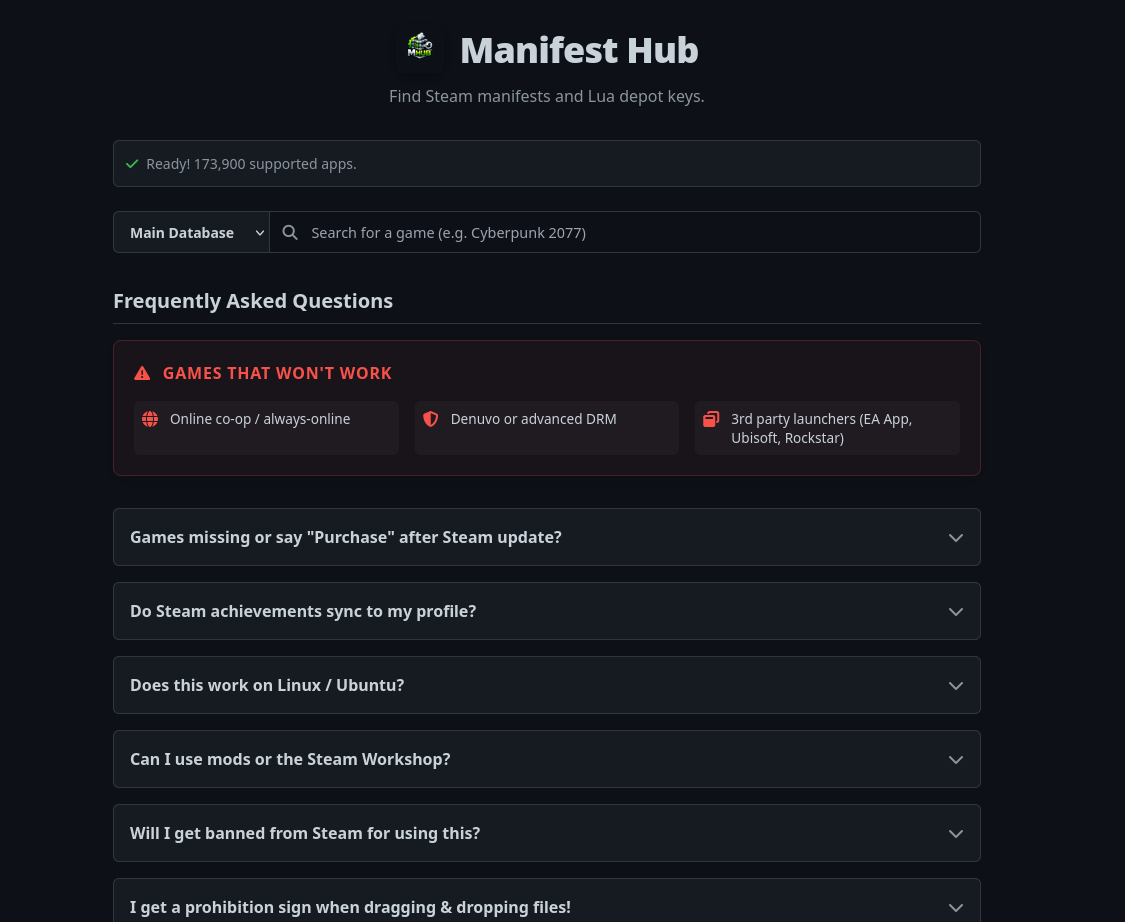
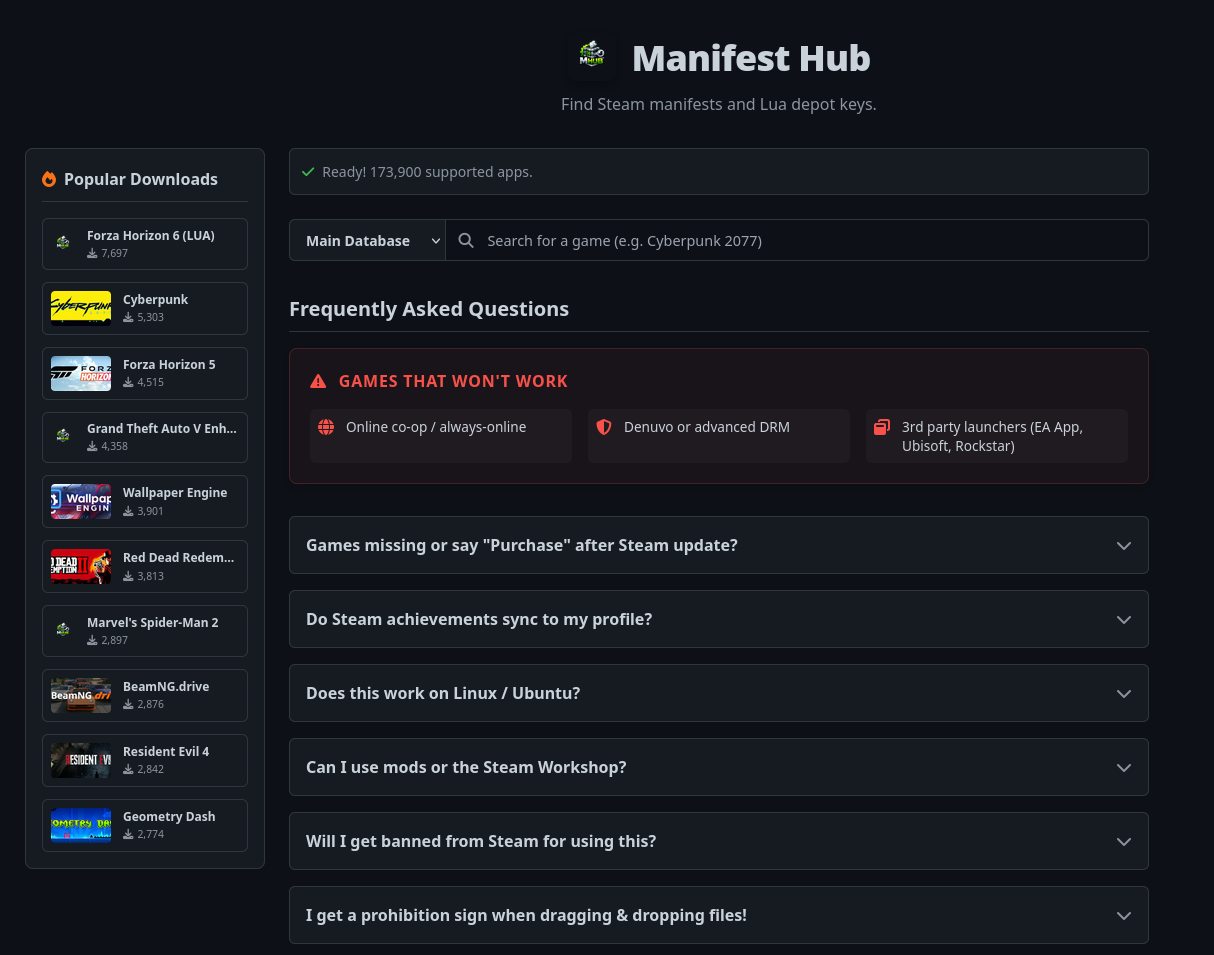
readme update

diff --git a/README.md b/README.md
@@ -9,20 +9,17 @@ Manifest Hub allows users to search through game manifests, view manifest detail
 ## Screenshots
 
 <details>
-<summary>Click to expand screenshot slider</summary>
-<br>
+<summary>Click to expand screenshots</summary>
 
-<table>
-  <tr>
-    <td valign="top"><p align="center"><strong>Homepage</strong></p><img src="assets/screenshots/Screenshot_20260623_153129.png" width="500" alt="Homepage"></td>
-    <td valign="top"><p align="center"><strong>Search Results</strong></p><img src="assets/screenshots/Screenshot_20260623_153230.png" width="500" alt="Search Results"></td>
-    <td valign="top"><p align="center"><strong>Legacy Archive</strong></p><img src="assets/screenshots/Screenshot_20260623_153309.png" width="500" alt="Legacy Archive"></td>
-    <td valign="top"><p align="center"><strong>Download History</strong></p><img src="assets/screenshots/Screenshot_20260623_202028.png" width="500" alt="Download History"></td>
-    <td valign="top"><p align="center"><strong>Account Settings</strong></p><img src="assets/screenshots/Screenshot_20260623_201936.png" width="500" alt="Account Settings"></td>
-  </tr>
-</table>
+![Homepage](assets/screenshots/Screenshot_20260623_153129.png)
 
-</details>
+![Search Results](assets/screenshots/Screenshot_20260623_153230.png)
+
+![Legacy Archive](assets/screenshots/Screenshot_20260623_153309.png)
+
+![User Download History](assets/screenshots/Screenshot_20260623_202028.png)
+
+![User Account Controls](assets/screenshots/Screenshot_20260623_201936.png)</details>
 
 ## Usage
 